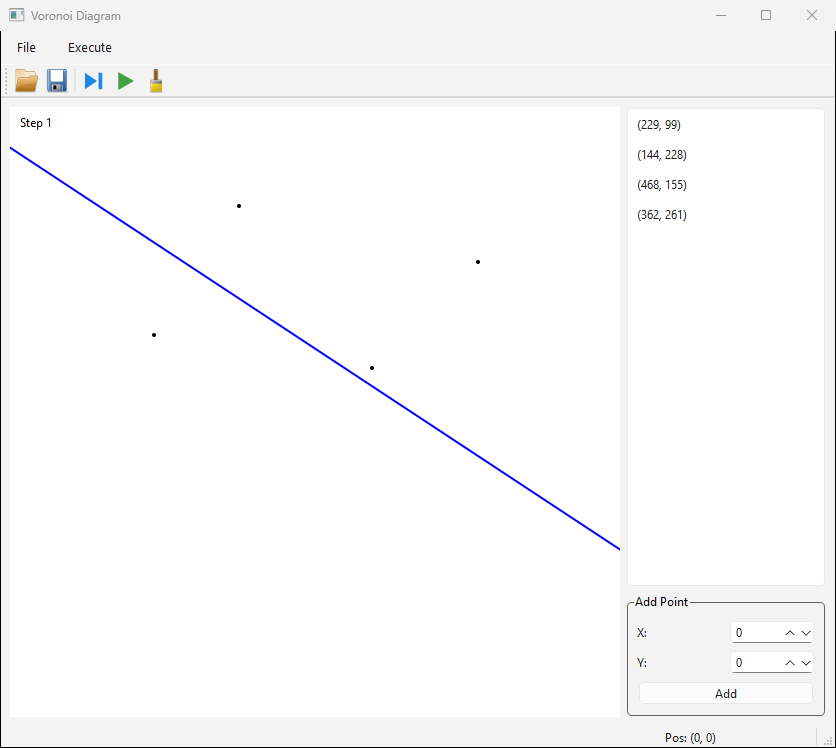
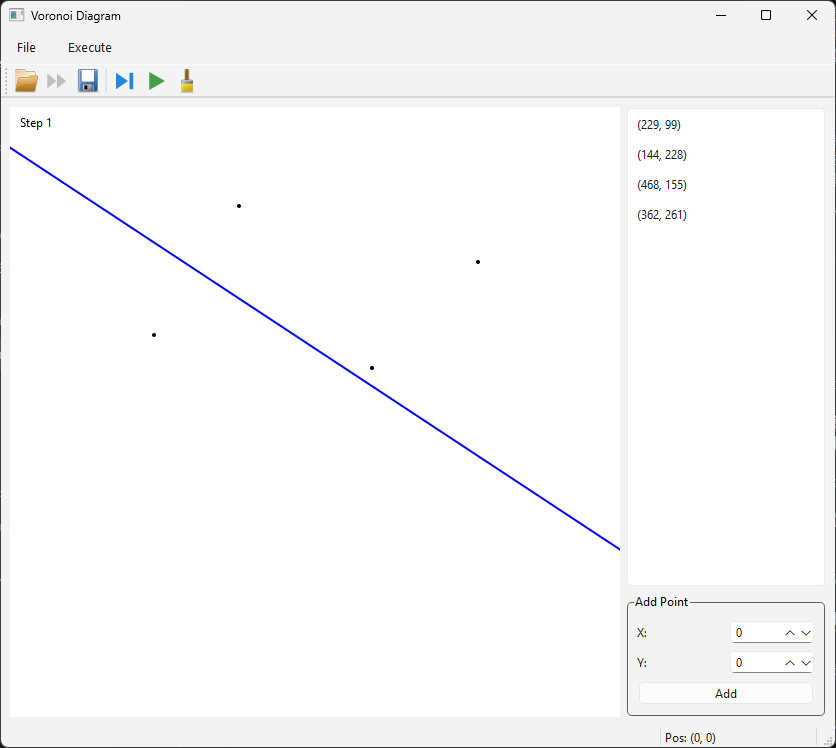
Show input file test cases with a Next test case button
- Reading an input file no longer stops with a message box after each
  test case. All test cases are read first and the first one is drawn;
  the Next test case toolbar button (orange, right of Open) draws the
  next one, and the status bar shows "Test case k / N". The 0-point
  stop message still appears after the last test case.
- Reading an output file or pressing Clear ends the test cases: the
  label is cleared and Next test case is disabled
- A repeated point is added only once, so the point list matches the
  points the algorithm uses
- Update the report (input file flow, toolbar, point list, status bar)
  and README, regenerate M143040074.txt
- Retake UI.png and step.png/step1..7.png with the new toolbar; same
  points and steps as before, Step still boxed in red

diff --git a/M143040074.html b/M143040074.html
@@ -219,7 +219,7 @@ footer { max-width: 1120px; margin: 0 auto; padding: 16px 40px 36px; border-top:
     </tbody>
   </table>
 
-  <p><strong>輸入格式檔</strong>分為「含註解」與「不含註解」兩種，可包含多筆測資。每筆測資第一行為點的數量 n，接下來 n 行為點的座標（以空白或 Tab 分隔），檔案最後一行為 0 表示結束；<code>#</code> 之後的內容為註解。每讀入一筆測資，程式會畫出結果並顯示讀入的點數與座標，按下 OK 後再讀下一筆；讀到 0 時顯示「讀入點數為零，檔案測試停止」。</p>
+  <p><strong>輸入格式檔</strong>分為「含註解」與「不含註解」兩種，可包含多筆測資。每筆測資第一行為點的數量 n，接下來 n 行為點的座標（以空白或 Tab 分隔），檔案最後一行為 0 表示結束；<code>#</code> 之後的內容為註解。讀入檔案後先畫出第一筆測資的結果，狀態列顯示目前是第幾筆；點選工具列的 <span class="menu">Next test case</span> 畫出下一筆。最後一筆之後再點選 Next test case，若檔案以 0 結尾，會顯示「讀入點數為零，檔案測試停止」。</p>
   <figure class="listing">
     <figcaption>輸入格式檔範例</figcaption>
 <pre><code>#雙點測試
@@ -254,9 +254,10 @@ E 193 261 610 481</code></pre>
     <tbody>
       <tr><td class="nowrap">左側</td><td class="nowrap">畫布</td><td>610 × 610，固定大小，左上角為原點 (0, 0)。</td></tr>
       <tr><td class="nowrap">左上</td><td class="nowrap">選單</td><td><span class="menu">File</span>：Read input text、Read output text、Save<br><span class="menu">Execute</span>：Step、Run、Clear</td></tr>
-      <tr><td class="nowrap">左上</td><td class="nowrap">工具列</td><td>Open、Save、Step、Run、Clear</td></tr>
-      <tr><td class="nowrap">右上</td><td class="nowrap">點座標列表</td><td>顯示畫布上所有點的座標。</td></tr>
+      <tr><td class="nowrap">左上</td><td class="nowrap">工具列</td><td>Open、Next test case、Save、Step、Run、Clear</td></tr>
+      <tr><td class="nowrap">右上</td><td class="nowrap">點座標列表</td><td>顯示畫布上所有點的座標，重複的點只顯示一次。</td></tr>
       <tr><td class="nowrap">右下</td><td class="nowrap">Add Point</td><td>輸入 (X, Y) 座標後按 Add 新增點。</td></tr>
+      <tr><td class="nowrap">右下</td><td class="nowrap">Test case</td><td>讀入輸入檔後，顯示目前是第幾筆測資；讀入輸出檔或按 Clear 後清除，Next test case 也隨之停用。</td></tr>
       <tr><td class="nowrap">右下</td><td class="nowrap">Pos</td><td>即時顯示滑鼠在畫布上的位置。</td></tr>
     </tbody>
   </table>

diff --git a/src/mainwindow.cpp b/src/mainwindow.cpp
@@ -17,7 +17,6 @@
 #include <QHBoxLayout>
 #include <QGroupBox>
 #include <QStatusBar>
-#include <QCoreApplication>
 #include <QRegularExpression>
 #include <QPainter>
 #include <cmath>
@@ -106,6 +105,9 @@ MainWindow::MainWindow(QWidget *parent)
     // 5. Status Bar Setup
     coordLabel = new QLabel("Pos: (0, 0)", this);
     coordLabel->setMinimumWidth(150); // Prevent text jitter by setting min width
+    caseLabel = new QLabel(this); // Which test case of the input file is shown
+    caseLabel->setContentsMargins(0, 0, 8, 0); // Space before the separator
+    statusBar()->addPermanentWidget(caseLabel);
     statusBar()->addPermanentWidget(coordLabel);
 
     // Connect mouse move signal from Canvas to update coordinates in StatusBar
@@ -172,6 +174,17 @@ void MainWindow::createActions() {
     readOutputAct->setStatusTip(tr("Read output text"));
     connect(readOutputAct, &QAction::triggered, this, &MainWindow::onReadOutput);
 
+    // Next test case of the input file
+    nextCaseAct = new QAction(tr("Next test case"), this);
+    nextCaseAct->setIcon(paintIcon([](QPainter &p) {
+        p.setBrush(QColor(251, 140, 0)); // Orange, so it is not mistaken for the blue Step icon
+        p.drawPolygon(QPolygonF({QPointF(6, 12), QPointF(30, 32), QPointF(6, 52)}));
+        p.drawPolygon(QPolygonF({QPointF(32, 12), QPointF(56, 32), QPointF(32, 52)}));
+    }));
+    nextCaseAct->setStatusTip(tr("Next test case"));
+    nextCaseAct->setEnabled(false); // Enabled after reading an input file with more test cases
+    connect(nextCaseAct, &QAction::triggered, this, &MainWindow::onNextTestCase);
+
     // Save
     saveAct = new QAction(tr("&Save"), this);
     saveAct->setIcon(style()->standardIcon(QStyle::SP_DialogSaveButton));
@@ -201,7 +214,7 @@ void MainWindow::createActions() {
     clearAct = new QAction(tr("&Clear"), this);
     clearAct->setIcon(style()->standardIcon(QStyle::SP_DialogResetButton));
     clearAct->setStatusTip(tr("Clear"));
-    connect(clearAct, &QAction::triggered, canvas, &CanvasWidget::clearCanvas);
+    connect(clearAct, &QAction::triggered, this, &MainWindow::onClear);
 }
 
 void MainWindow::createMenus() {
@@ -223,6 +236,7 @@ void MainWindow::createToolBar() {
     toolBar->setToolButtonStyle(Qt::ToolButtonIconOnly);
 
     toolBar->addAction(openAct);
+    toolBar->addAction(nextCaseAct);
     toolBar->addAction(saveAct);
     toolBar->addSeparator();
 
@@ -290,6 +304,9 @@ void MainWindow::readInputFormat(QFile *file) {
     int n = -1;
     bool ok = false;
 
+    // Read all test cases first, then show them one at a time
+    resetTestCases();
+
     while (!textStream.atEnd()) {
         // 1. Loop until we find the next number "n"
         ok = false;
@@ -304,18 +321,16 @@ void MainWindow::readInputFormat(QFile *file) {
         }
 
         // No more test cases (file ends without "0")
-        if (!ok) return;
+        if (!ok) break;
 
-        // 2. Number of points is zero, file test stopped
+        // 2. Number of points is zero, file test stopped (shown after the last test case)
         if (n == 0) {
-            // Display
-            QMessageBox::information(this, tr("Test Finished"), tr("讀入點數為零，檔案測試停止"));
-            return;
+            zeroPending = true;
+            break;
         }
 
         // 3. Read n points
         QVector<QPointF> points;
-        QStringList pointStrings;
 
         while (points.size() < n && !textStream.atEnd()) {
             // Coordinates may be separated by spaces or tabs
@@ -325,34 +340,51 @@ void MainWindow::readInputFormat(QFile *file) {
             if (parts.size() >= 2) {
                 bool okX, okY;
                 double x = parts[0].toDouble(&okX), y = parts[1].toDouble(&okY);
-                if (okX && okY) {
+                if (okX && okY)
                     points.append(QPointF(x, y));
-                    pointStrings.append(QString("(%1, %2)").arg(x).arg(y));
-                }
             }
         }
-
-        // 4. Update the canvas and pause
-        canvas->setPoints(points);
-        canvas->runCalculation();
-        QCoreApplication::processEvents();
-
-        QString verificationMsg = QString(tr("Read test case: %1 points\n%2\n"
-                                             "Press OK to continue the next test case."))
-                                            .arg(points.size())
-                                            .arg(pointStrings.join(", "));
-        QMessageBox msgBox(this);
-        msgBox.setWindowTitle(tr("Test Case Read"));
-        msgBox.setText(verificationMsg);
-        msgBox.setStandardButtons(QMessageBox::Ok);
-        msgBox.exec(); // This line blocks execution until the user presses "OK"
+        testCases.append(points);
     }
+
+    // 4. Show the first test case
+    onNextTestCase();
+}
+
+void MainWindow::onNextTestCase() {
+    if (currentCase + 1 < testCases.size()) {
+        ++currentCase;
+        canvas->setPoints(testCases[currentCase]);
+        canvas->runCalculation();
+        caseLabel->setText(tr("Test case %1 / %2").arg(currentCase + 1).arg(testCases.size()));
+    }
+    else if (zeroPending) {
+        zeroPending = false;
+        QMessageBox::information(this, tr("Test Finished"), tr("讀入點數為零，檔案測試停止"));
+    }
+
+    // Stays enabled after the last test case if the stop message is still to be shown
+    nextCaseAct->setEnabled(currentCase + 1 < testCases.size() || zeroPending);
+}
+
+void MainWindow::resetTestCases() {
+    testCases.clear();
+    currentCase = -1;
+    zeroPending = false;
+    caseLabel->clear();
+    nextCaseAct->setEnabled(false);
+}
+
+void MainWindow::onClear() {
+    resetTestCases();
+    canvas->clearCanvas();
 }
 
 void MainWindow::readOutputFormat(QFile *file) {
     QVector<QPointF> points;
     QVector<QLineF> edges;
     QTextStream textStream(file);
+    resetTestCases(); // The canvas no longer shows a test case of the input file
 
     while (!textStream.atEnd()) {
         QString line = textStream.readLine().trimmed();

diff --git a/src/canvaswidget.cpp b/src/canvaswidget.cpp
@@ -39,14 +39,22 @@ void CanvasWidget::clearCanvas() {
     updateState();
 }
 
+// A repeated point is the same site, keep only its first occurrence (in input order)
+static QVector<QPointF> removeRepeated(const QVector<QPointF>& points) {
+    QVector<QPointF> result;
+    for (const QPointF& p : points)
+        if (!result.contains(p)) result.append(p);
+    return result;
+}
+
 void CanvasWidget::setPoints(const QVector<QPointF>& newPoints) {
-    points = newPoints;
+    points = removeRepeated(newPoints);
     edges.clear();
     updateState();
 }
 
 void CanvasWidget::setDiagram(const QVector<QPointF>& newPoints, const QVector<QLineF>& newEdges) {
-    points = newPoints;
+    points = removeRepeated(newPoints);
     edges = newEdges;
     updateState();
 }
@@ -79,6 +87,7 @@ void CanvasWidget::runCalculation() {
 }
 
 void CanvasWidget::addPoint(const QPointF& p) {
+    if (points.contains(p)) return; // Already on the canvas, the diagram does not change
     points.append(p);
     edges.clear();
     updateState();

diff --git a/include/mainwindow.h b/include/mainwindow.h
@@ -36,6 +36,8 @@ private slots:
     void readFile();
     void onReadInput();
     void onReadOutput();
+    void onNextTestCase();
+    void onClear();
     void saveFile();
 
     void updateMousePos(QPointF pos);
@@ -51,6 +53,7 @@ private:
 
     void readInputFormat(QFile *file);
     void readOutputFormat(QFile *file);
+    void resetTestCases(); // End the test cases of the last input file
 
     CanvasWidget *canvas;
     QListWidget *pointListWidget;
@@ -62,12 +65,19 @@ private:
     QAction *openAct;
     QAction *readInputAct;
     QAction *readOutputAct;
+    QAction *nextCaseAct;
     QAction *saveAct;
     QAction *stepAct;
     QAction *runAct;
     QAction *clearAct;
 
     QLabel *coordLabel;
+    QLabel *caseLabel;
+
+    // Test cases of the last input file, shown one at a time with "Next test case"
+    QVector<QVector<QPointF>> testCases;
+    int currentCase = -1;
+    bool zeroPending = false; // The file ends with 0, show the stop message after the last test case
 };
 
 #endif // MAINWINDOW_H

diff --git a/README.md b/README.md
@@ -11,6 +11,7 @@ M143040074 資工碩一 李俊諺
 ## 功能
 
 - 以滑鼠點選、手動輸入 (X, Y) 或讀入輸入檔加入點；也能讀入輸出檔直接顯示圖形。
+- 輸入檔有多筆測資時，先顯示第一筆，再以工具列的 **Next test case** 按鈕逐筆查看。
 - **Run** 直接畫出結果；**Step** 把每次 merge 分成 7 步（左右兩半的 Voronoi diagram、convex hull、hyperplane、消線），以不同顏色逐步畫出。
 - 將結果存成輸出文字檔。
 
